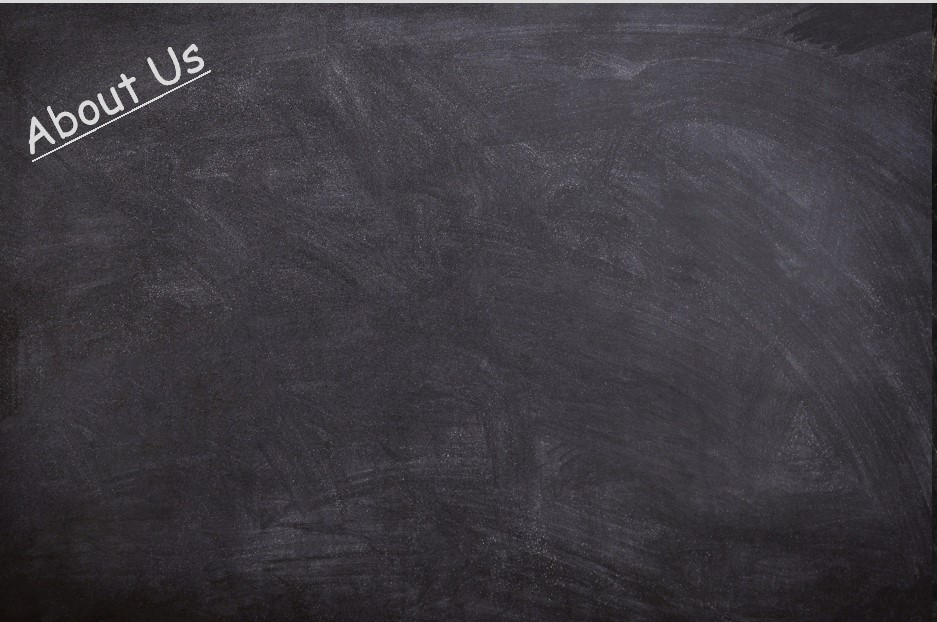
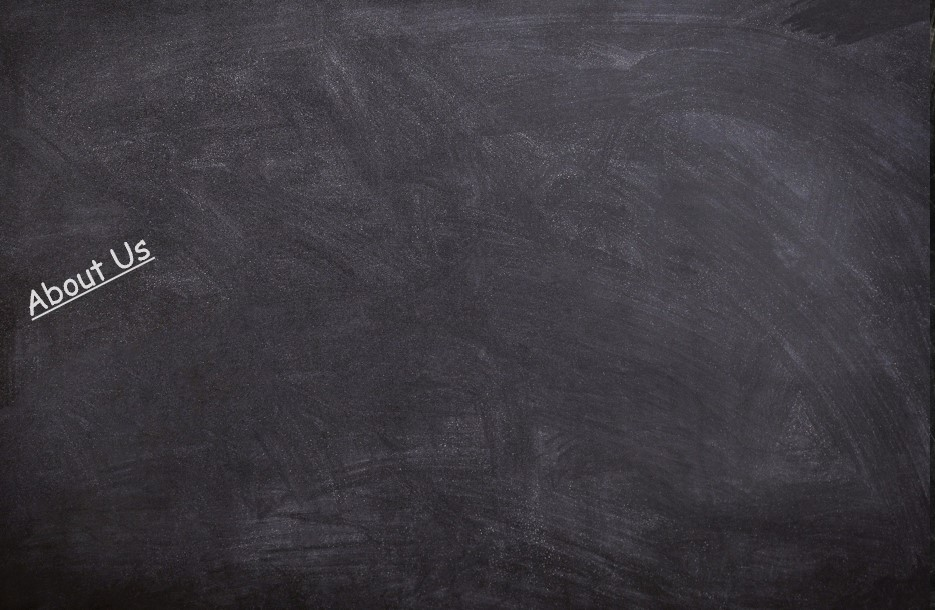
initial style pushed to Update6_AboutUs_Section

diff --git a/src/components/AboutUs.js b/src/components/AboutUs.js
@@ -1,14 +1,89 @@
 import React from 'react'
-import Slide1v4 from '../assets/Ab_images/Slide1v4.jpg'; 
+import 'bootstrap/dist/css/bootstrap.min.css';
+import Carousel from 'react-bootstrap/Carousel';
+import img1 from '../assets/Ab_images/Slide1m.jpg';
+import img2 from '../assets/Ab_images/Slide2m.jpg';
+import img3 from '../assets/Ab_images/Slide3m.jpg';
+import img4 from '../assets/Ab_images/Slide4m.jpg';
+import img5 from '../assets/Ab_images/Slide5m.jpg';
+import img6 from '../assets/Ab_images/Slide6m.jpg';
+import img7 from '../assets/Ab_images/Slide7m.jpg';
 
 function AboutUs() {
     return (
         <div className='aboutUsSlides'>
-            <div className='container-fluid'>
-            <img src={Slide1v4} alt='first slide' className='backgroundImg'/>
 
-            
-        </div>
+            <div className='col-xlg-7 col-lg-7 col-md-7'>
+                <div className='container-fluid'>
+                    <Carousel fade>
+                        <Carousel.Item >
+                            <img
+                                className="d-block w-100"
+                                src={img1}
+                                alt="First slide"
+                                width={800}
+                                
+                            />
+                        </Carousel.Item>
+
+                        <Carousel.Item>
+                            <img
+                                className="d-block w-100"
+                                src={img2}
+                                alt="Second slide"
+                                width={800}
+                            />
+                        </Carousel.Item>
+
+                        <Carousel.Item>
+                            <img
+                                className="d-block w-100"
+                                src={img3}
+                                alt="Third slide"
+                                width={800}
+                            />
+                        </Carousel.Item>
+
+                        <Carousel.Item>
+                            <img
+                                className="d-block w-100"
+                                src={img4}
+                                alt="Third slide"
+                                width={800}
+                            />
+                        </Carousel.Item>
+
+                        <Carousel.Item>
+                            <img
+                                className="d-block w-100"
+                                src={img5}
+                                alt="Third slide"
+                                width={800}
+                            />
+                        </Carousel.Item>
+
+                        <Carousel.Item>
+                            <img
+                                className="d-block w-100"
+                                src={img6}
+                                alt="Third slide"
+                                width={800}
+                            />
+                        </Carousel.Item>
+
+                        <Carousel.Item>
+                            <img
+                                className="d-block w-100"
+                                src={img7}
+                                alt="Third slide"
+                                width={800}
+                            />
+                        </Carousel.Item>
+                    </Carousel>
+                </div>
+            </div>
+
+
         </div>
     )
 }

diff --git a/src/components/WhatWeDo.js b/src/components/WhatWeDo.js
@@ -1,8 +1,87 @@
 import React from 'react'
+import 'bootstrap/dist/css/bootstrap.min.css';
+import Carousel from 'react-bootstrap/Carousel';
+import img1 from '../assets/Ab_images/Slide1m.jpg';
+import img2 from '../assets/Ab_images/Slide2m.jpg';
+import img3 from '../assets/Ab_images/Slide3m.jpg';
+import img4 from '../assets/Ab_images/Slide4m.jpg';
+import img5 from '../assets/Ab_images/Slide5m.jpg';
+import img6 from '../assets/Ab_images/Slide6m.jpg';
+import img7 from '../assets/Ab_images/Slide7m.jpg';
 
 function WhatWeDo() {
   return (
-    <div>WhatWeDo</div>
+    <div className='whatWeDoSlides'>
+           <div className='col-xlg-7 col-lg-7 col-md-7'>
+                <div className='container-fluid'>
+                    <Carousel fade>
+                        <Carousel.Item >
+                            <img
+                                className="d-block w-100"
+                                src={img1}
+                                alt="First slide"
+                                width={800}
+                                
+                            />
+                        </Carousel.Item>
+
+                        <Carousel.Item>
+                            <img
+                                className="d-block w-100"
+                                src={img2}
+                                alt="Second slide"
+                                width={800}
+                            />
+                        </Carousel.Item>
+
+                        <Carousel.Item>
+                            <img
+                                className="d-block w-100"
+                                src={img3}
+                                alt="Third slide"
+                                width={800}
+                            />
+                        </Carousel.Item>
+
+                        <Carousel.Item>
+                            <img
+                                className="d-block w-100"
+                                src={img4}
+                                alt="Third slide"
+                                width={800}
+                            />
+                        </Carousel.Item>
+
+                        <Carousel.Item>
+                            <img
+                                className="d-block w-100"
+                                src={img5}
+                                alt="Third slide"
+                                width={800}
+                            />
+                        </Carousel.Item>
+
+                        <Carousel.Item>
+                            <img
+                                className="d-block w-100"
+                                src={img6}
+                                alt="Third slide"
+                                width={800}
+                            />
+                        </Carousel.Item>
+
+                        <Carousel.Item>
+                            <img
+                                className="d-block w-100"
+                                src={img7}
+                                alt="Third slide"
+                                width={800}
+                            />
+                        </Carousel.Item>
+                    </Carousel>
+                </div>
+            </div>
+    </div>
   )
 }
 

diff --git a/src/index.css b/src/index.css
@@ -216,7 +216,7 @@ code {
 
 .contact-container {
   width: 100%;
-  height:auto;
+  height: auto;
   border: 5px solid rgb(0, 0, 0);
   margin: 30px 0px;
   text-align: center;
@@ -225,47 +225,41 @@ code {
 
 .contact-container .container-fluid {
   position: relative;
-  /* border: 2px solid blue; */
   justify-content: center;
   align-items: center;
   padding: 10px;
-  
 }
 
- .contactImage {
+.contactImage {
   /* border: 3px solid cyan; */
   display: inline;
   position: relative;
   max-width: 280px;
   max-height: 470px;
   /* margin-left: 100px; */
-  
-  
 }
 
- .ContactForm {
+.ContactForm {
   /* border: 2px solid black; */
   display: inline;
   position: relatiave;
   text-align: left;
 }
 
-
-
-/* .contact-container {
-  border: 3px solid rgb(28, 219, 219);
-  width: 60rem;
-  height: 35rem;
-  margin: 50px;
-  padding: 40px;
+/* AboutUs Section */
+.aboutUsSlides {
   position: relative;
-  left: 20%;
-} */
+  display: flex;
+  justify-content: center;
+  align-items: center;
+  height: 80vh;
 
-/* AboutUs Slide */
-.backgroundImg {
-  width: 100%;
-  height: 100%;
+  
+  background-image: url(../src/assets/Ab_images/Slide1v6.jpg);
+  background-size: cover;
+  background-attachment: fixed;
+  background-position: center;
+  background-repeat: no-repeat;
 }
 
 /* .carousel1-contaier > .carousel1 .carousel2 .carousel3 > img {
